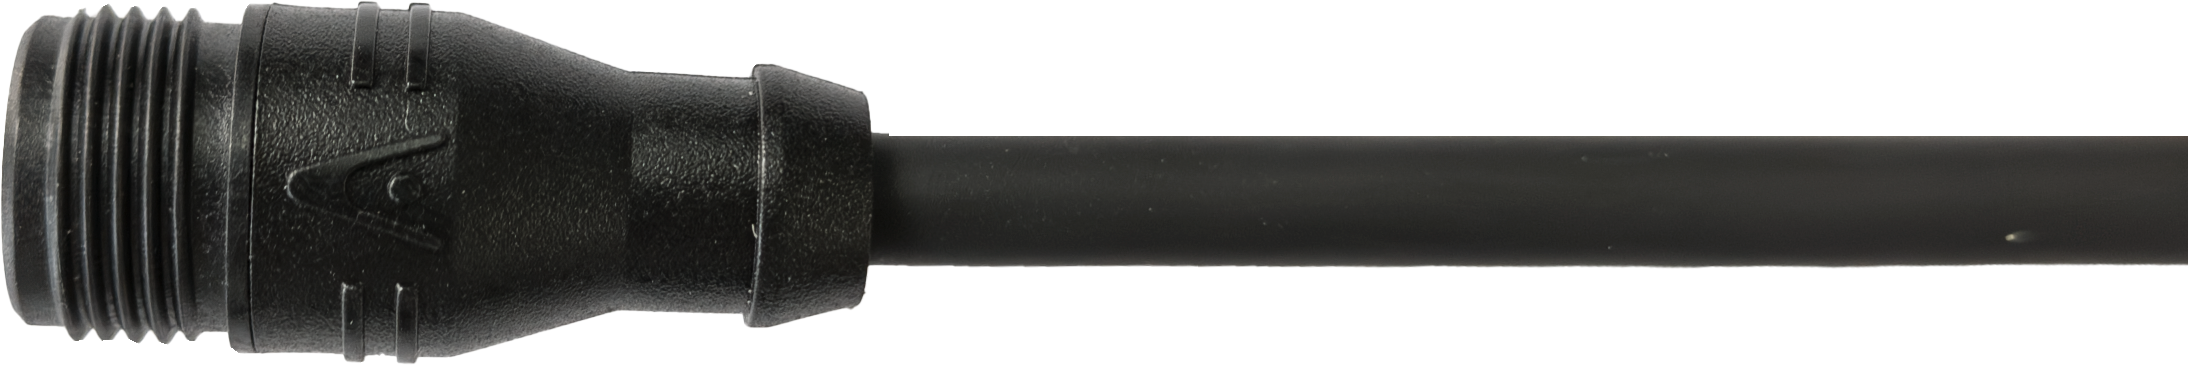
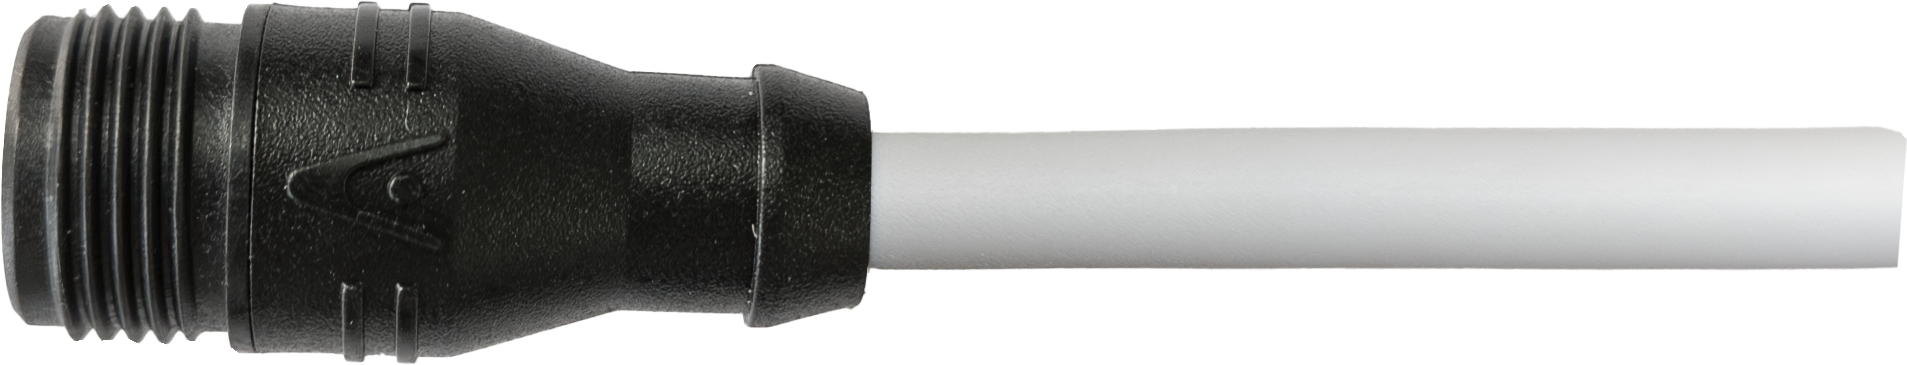
优化图片显示

diff --git a/styles.css b/styles.css
@@ -399,34 +399,28 @@ body {
 }
 .card__body > .options { flex: 1; min-width: 0; }
 
-/* 出线方式效果图 */
+/* 出线方式 / 接头材质 效果图 */
 .wire-preview {
   flex-shrink: 0;
-  width: 200px;
+  width: 260px;
   background: var(--panel);
   border: 1px solid var(--line);
-  border-radius: 12px;
-  padding: 14px 12px;
+  border-radius: 14px;
+  padding: 20px;
   text-align: center;
   animation: rise .35s ease;
 }
 .wire-preview.hidden { display: none; }
-.wire-preview__title {
-  font-size: .72rem;
-  letter-spacing: .2em;
-  color: var(--ink-faint);
-  text-transform: uppercase;
-  margin-bottom: 10px;
-  font-family: var(--font-display);
-}
+.wire-preview__title { display: none; }
 .wire-preview__img {
-  height: 120px;
+  height: 180px;
   display: flex;
   align-items: center;
   justify-content: center;
-  background: var(--panel-2);
-  border-radius: 8px;
-  margin-bottom: 10px;
+  background: #ffffff;
+  border: 1px solid var(--line);
+  border-radius: 10px;
+  margin-bottom: 12px;
   overflow: hidden;
 }
 .wire-preview__img svg { width: 100%; height: 100%; }
@@ -437,6 +431,7 @@ body {
   display: block;
   cursor: zoom-in;
   transition: transform .18s ease;
+  padding: 8px;
 }
 .wire-preview__pic:hover { transform: scale(1.04); }
 .wire-preview__name {
@@ -633,40 +628,130 @@ body {
   color: var(--ink-faint);
 }
 
+@media (max-width: 1024px) {
+  .masthead__inner, .stage, .foot { padding-left: 20px; padding-right: 20px; }
+  .card { padding: 28px 24px 22px; }
+  .card__head { padding-right: 60px; }
+  .card__badge { font-size: 2rem; top: 18px; right: 20px; }
+  .options {
+    grid-template-columns: repeat(auto-fill, minmax(136px, 1fr));
+    gap: 11px;
+  }
+  .option { font-size: .96rem; padding: 14px 10px; }
+  .result { padding: 24px 24px 26px; }
+  .result__grid { grid-template-columns: repeat(auto-fill, minmax(180px, 1fr)); }
+  .wire-preview { width: 220px; padding: 16px; }
+  .wire-preview__img { height: 160px; }
+}
+
 @media (max-width: 620px) {
   .masthead__inner, .stage, .foot { padding-left: 14px; padding-right: 14px; }
-  .card { padding: 22px 18px 18px; }
+  .stage { padding-top: 18px; gap: 16px; padding-bottom: 40px; }
+
+  /* 顶栏 */
+  .masthead__inner { padding: 14px 14px; gap: 10px; }
+  .brand { gap: 10px; }
+  .brand__mark { width: 36px; height: 36px; }
+  .brand__text h1 { font-size: 1rem; line-height: 1.3; }
+  .brand__text p { font-size: .62rem; letter-spacing: .22em; }
   .docno { display: none; }
-  .brand__mark { width: 38px; height: 38px; }
-  .brand__text h1 { font-size: 1.12rem; }
-  .steps__label { font-size: .6rem; }
+
+  /* 进度条：步骤多时标签省略，保证不换行挤压 */
+  .steps__track { gap: 4px; }
+  .steps__label { font-size: .6rem; letter-spacing: 0; }
+
+  /* 卡片 */
+  .card { padding: 20px 16px 16px; border-radius: 12px; }
+  .card__badge { font-size: 1.8rem; top: 14px; right: 14px; }
+  .card__head { margin-bottom: 16px; padding-right: 50px; }
+  .card__head h2 { font-size: 1.12rem; }
+  .card__head p { font-size: .82rem; }
+
+  /* 选项：更紧凑的两列 */
   .options {
-    grid-template-columns: repeat(auto-fill, minmax(112px, 1fr));
+    grid-template-columns: repeat(2, 1fr);
     gap: 10px;
   }
   .option {
-    min-height: 58px;
+    min-height: 56px;
     display: flex;
     flex-direction: column;
     justify-content: center;
     padding: 12px 10px;
-    font-size: .98rem;
+    font-size: .94rem;
     border-radius: 12px;
   }
+  .option .option__sub { font-size: .66rem; }
+
+  /* 效果图：在选项下方，全宽 */
+  .card__body { flex-direction: column; gap: 14px; }
+  .wire-preview { width: 100%; padding: 16px; }
+  .wire-preview__img { height: 180px; }
+
+  /* 底部按钮：竖排 */
   .card__foot {
     flex-direction: column-reverse;
     align-items: stretch;
+    gap: 10px;
+    margin-top: 18px;
+    padding-top: 14px;
   }
   .foot__btns { flex-direction: column-reverse; }
   .foot__btns .btn { width: 100%; }
-  .card__body { flex-direction: column; }
-  .wire-preview { width: 100%; }
-  .wire-preview__img { height: 140px; }
-  .foot__hint { text-align: center; }
-  .btn {
-    padding: 13px 20px;
-    font-size: 1rem;
+  .foot__hint { text-align: center; font-size: .72rem; }
+  .btn { padding: 12px 20px; font-size: .96rem; }
+
+  /* 结果面板 */
+  .result { padding: 20px 16px 22px; }
+  .result__head { margin-bottom: 10px; }
+  .result__title { font-size: .98rem; }
+  .result__legend { font-size: .62rem; letter-spacing: .22em; }
+  .result__model {
+    font-size: clamp(1.2rem, 6vw, 1.8rem);
+    padding: 12px 0 16px;
   }
-  .result { padding: 22px 18px 24px; }
-  .result__model { font-size: clamp(1.3rem, 5vw, 1.9rem); }
+  .result__grid {
+    grid-template-columns: 1fr 1fr;
+    gap: 8px;
+    margin: 14px 0;
+  }
+  .result__grid > div { padding: 9px 12px; border-radius: 8px; }
+  .result__grid > div:last-child { grid-column: 1 / -1; }
+  .result__grid dt { font-size: .68rem; }
+  .result__grid dd { font-size: .92rem; }
+
+  /* 按钮全宽 */
+  .result__actions { flex-direction: column; }
+  .result__actions .btn { width: 100%; }
+
+  /* 客户型号选项：更小更紧凑 */
+  .cust-opt { padding: 6px 11px; font-size: .74rem; }
+
+  /* 左侧工具栏：默认收起，体积更小 */
+  .sidetool { left: 4px; top: 45%; }
+  .sidetool__body {
+    width: 124px;
+    padding: 12px 10px;
+    gap: 10px;
+  }
+  .sidetool__title { font-size: .62rem; padding-bottom: 6px; }
+  .sidetool__link { padding: 7px 8px; font-size: .8rem; }
+
+  /* 解析页输入框 */
+  .series-search input { padding: 12px 14px; font-size: .92rem; }
+  .parse-hint { font-size: .76rem; }
+
+  /* 灯箱 */
+  .lightbox__close { top: 16px; right: 16px; width: 38px; height: 38px; font-size: 1.3rem; }
+  .lightbox__img { max-width: 94vw; max-height: 82vh; padding: 8px; }
+}
+
+/* 超小屏（≤380px）进一步压缩 */
+@media (max-width: 380px) {
+  .options { grid-template-columns: repeat(2, 1fr); gap: 8px; }
+  .option { min-height: 50px; padding: 10px 6px; font-size: .86rem; }
+  .option .option__sub { font-size: .6rem; }
+  .brand__text h1 { font-size: .92rem; }
+  .steps__label { font-size: .56rem; }
+  .result__grid { grid-template-columns: 1fr; }
 }
